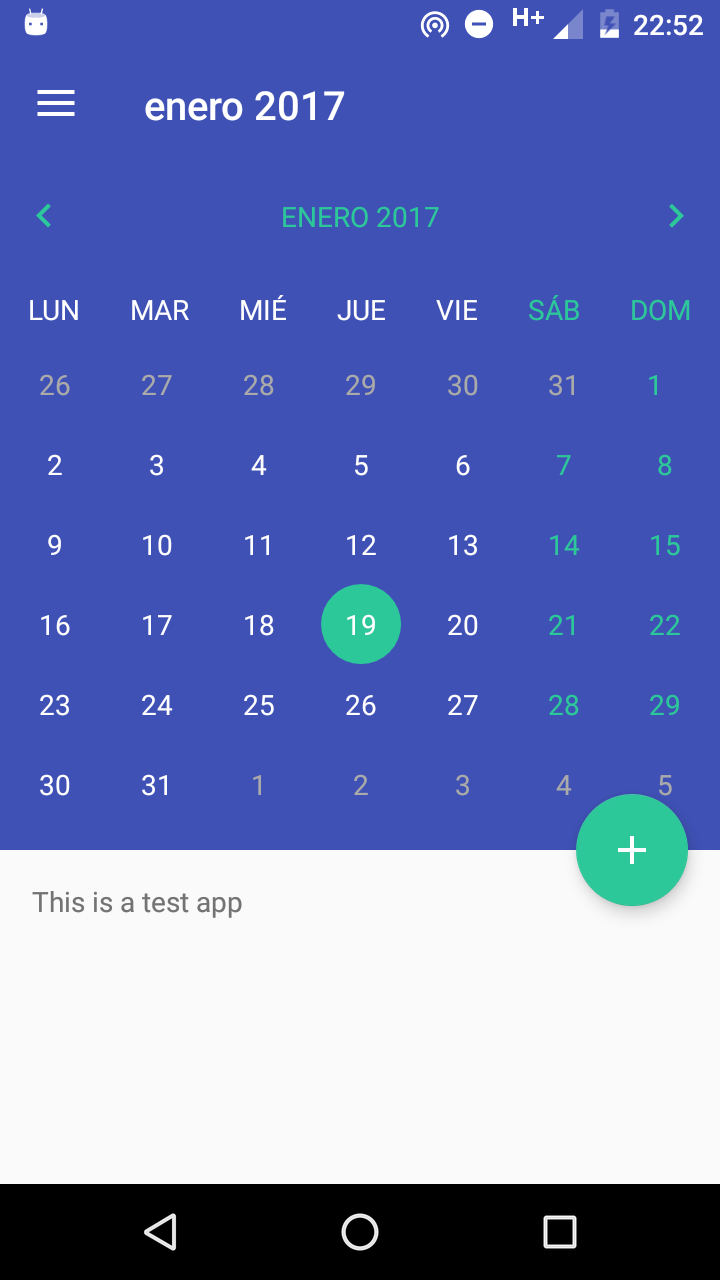
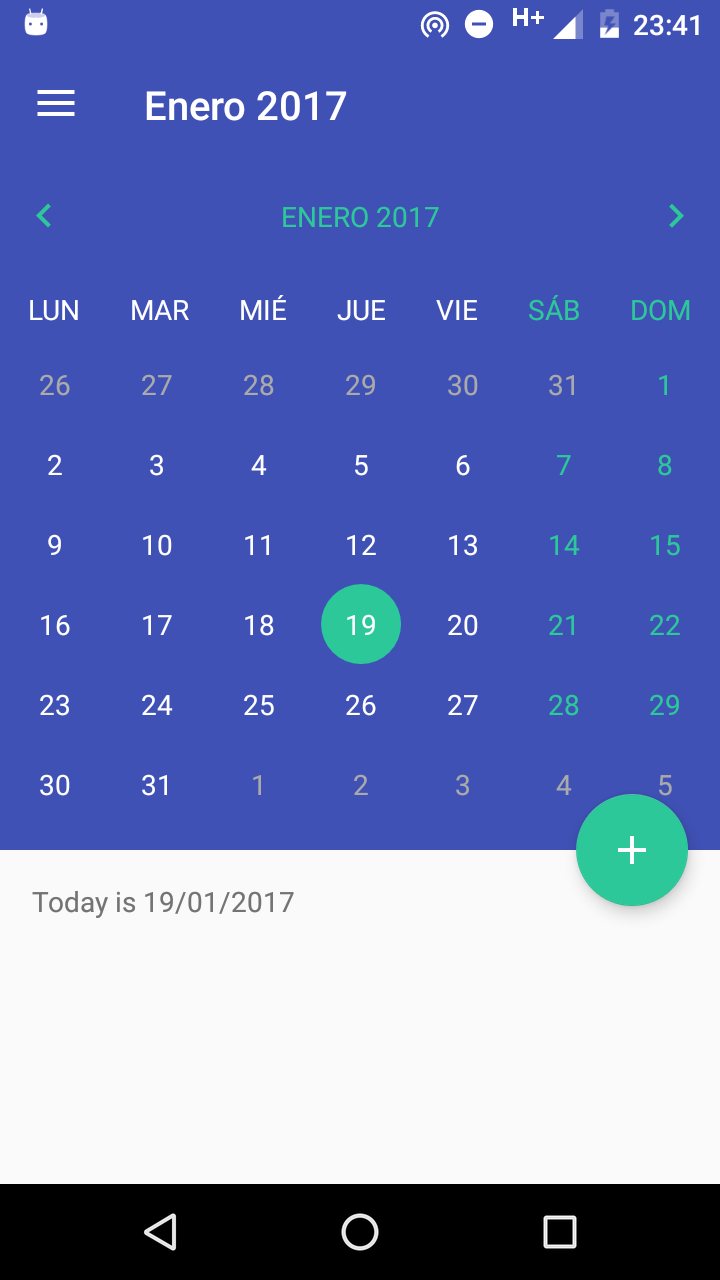
Refactor of sample app

Changed region(s): [[0.0611, 0.6875, 0.3972, 0.7188], [0.1833, 0.0625, 0.4889, 0.0938], [0.9167, 0.0, 0.9778, 0.0312]]

diff --git a/app/src/main/java/io/blackbox_vision/materialcalendarview/sample/view/MainActivity.java b/app/src/main/java/io/blackbox_vision/materialcalendarview/sample/view/MainActivity.java
@@ -1,0 +1,137 @@
+package io.blackbox_vision.materialcalendarview.sample.view;
+
+import android.os.Bundle;
+import android.support.annotation.NonNull;
+import android.support.design.widget.FloatingActionButton;
+import android.support.design.widget.NavigationView;
+import android.support.v4.view.GravityCompat;
+import android.support.v4.widget.DrawerLayout;
+import android.support.v7.app.ActionBar;
+import android.support.v7.app.ActionBarDrawerToggle;
+import android.support.v7.app.AppCompatActivity;
+import android.support.v7.widget.Toolbar;
+import android.view.MenuItem;
+import android.widget.TextView;
+
+import butterknife.BindView;
+
+import butterknife.ButterKnife;
+import io.blackbox_vision.materialcalendarview.sample.R;
+import io.blackbox_vision.materialcalendarview.sample.logic.presenter.MainPresenter;
+import io.blackbox_vision.materialcalendarview.sample.logic.presenter_view.MainView;
+import io.blackbox_vision.materialcalendarview.view.CalendarView;
+
+import java.text.SimpleDateFormat;
+import java.util.Calendar;
+import java.util.Date;
+import java.util.Locale;
+
+
+import static io.blackbox_vision.materialcalendarview.sample.utils.AnimationUtils.animate;
+
+
+public final class MainActivity extends AppCompatActivity implements MainView {
+    private static final String DATE_TEMPLATE = "dd/MM/yyyy";
+
+    private final MainPresenter presenter = new MainPresenter(this);
+
+    @BindView(R.id.textview)
+    TextView textView;
+
+    @BindView(R.id.drawer_layout)
+    DrawerLayout drawer;
+
+    @BindView(R.id.toolbar)
+    Toolbar toolbar;
+
+    @BindView(R.id.nav_view)
+    NavigationView navigationView;
+
+    @BindView(R.id.fab)
+    FloatingActionButton fab;
+
+    @BindView(R.id.calendar_view)
+    CalendarView calendarView;
+
+    @NonNull
+    private final SimpleDateFormat formatter = new SimpleDateFormat(DATE_TEMPLATE, Locale.getDefault());
+
+    @Override
+    protected void onCreate(Bundle savedInstanceState) {
+        super.onCreate(savedInstanceState);
+        setContentView(R.layout.activity_main);
+        ButterKnife.bind(this);
+
+        setSupportActionBar(toolbar);
+
+        presenter.addNavigationDrawer();
+        presenter.addCalendarView();
+        presenter.addTextView();
+        presenter.animate();
+    }
+
+    @Override
+    public void onBackPressed() {
+        if (drawer.isDrawerOpen(GravityCompat.START)) {
+            drawer.closeDrawer(GravityCompat.START);
+        } else {
+            super.onBackPressed();
+        }
+    }
+
+    public boolean onNavigationItemSelected(MenuItem item) {
+        drawer.closeDrawer(GravityCompat.START);
+        return true;
+    }
+
+    @Override
+    public void prepareTextView() {
+        textView.setText(String.format("Today is %s", formatter.format(new Date(System.currentTimeMillis()))));
+    }
+
+    @Override
+    public void prepareCalendarView() {
+        final ActionBar actionBar = getSupportActionBar();
+
+        calendarView.setFirstDayOfWeek(Calendar.MONDAY);
+        calendarView.setIsOverflowDateVisible(true);
+        calendarView.setCurrentDay(new Date(System.currentTimeMillis()));
+        calendarView.setBackButtonColor(R.color.colorAccent);
+        calendarView.setNextButtonColor(R.color.colorAccent);
+        calendarView.refreshCalendar(Calendar.getInstance(Locale.getDefault()));
+        calendarView.setOnDateLongClickListener(selectedDate -> textView.setText(formatter.format(selectedDate)));
+        calendarView.setOnMonthChangeListener(monthDate -> {
+            final SimpleDateFormat df = new SimpleDateFormat("MMMM yyyy", Locale.getDefault());
+
+            if (null != actionBar) {
+                String dateStr = df.format(monthDate);
+                dateStr = dateStr.substring(0, 1).toUpperCase() + dateStr.substring(1, dateStr.length());
+
+                actionBar.setTitle(dateStr);
+            }
+        });
+    }
+
+    @Override
+    public void prepareNavigationDrawer() {
+        final ActionBarDrawerToggle toggle = new ActionBarDrawerToggle(
+                this,
+                drawer,
+                toolbar,
+                R.string.navigation_drawer_open,
+                R.string.navigation_drawer_close
+        );
+
+        drawer.addDrawerListener(toggle);
+        toggle.syncState();
+
+        navigationView.setNavigationItemSelectedListener(this::onNavigationItemSelected);
+    }
+
+    @Override
+    public void animateViews() {
+        calendarView.shouldAnimateOnEnter(true);
+        animate(fab, getApplicationContext());
+        animate(textView, getApplicationContext());
+    }
+}

diff --git a/app/src/main/java/io/blackbox_vision/materialcalendarview/sample/logic/presenter/MainPresenter.java b/app/src/main/java/io/blackbox_vision/materialcalendarview/sample/logic/presenter/MainPresenter.java
@@ -1,0 +1,48 @@
+package io.blackbox_vision.materialcalendarview.sample.logic.presenter;
+
+import android.support.annotation.Nullable;
+
+import io.blackbox_vision.materialcalendarview.sample.logic.presenter_view.MainView;
+
+public final class MainPresenter {
+
+    @Nullable
+    private MainView view;
+
+    public MainPresenter(@Nullable MainView view) {
+        this.view = view;
+    }
+
+    public void addNavigationDrawer() {
+        if (null != getView()) {
+            getView().prepareNavigationDrawer();
+        }
+    }
+
+    public void addTextView() {
+        if (null != getView()) {
+            getView().prepareTextView();
+        }
+    }
+
+    public void addCalendarView() {
+        if (null != getView()) {
+            getView().prepareCalendarView();
+        }
+    }
+
+    public void animate() {
+        if (null != getView()) {
+            getView().animateViews();
+        }
+    }
+
+    public void detachView() {
+        this.view = null;
+    }
+
+    @Nullable
+    public MainView getView() {
+        return view;
+    }
+}

diff --git a/app/src/main/java/io/blackbox_vision/materialcalendarview/sample/utils/AnimationUtils.java b/app/src/main/java/io/blackbox_vision/materialcalendarview/sample/utils/AnimationUtils.java
@@ -1,0 +1,26 @@
+package io.blackbox_vision.materialcalendarview.sample.utils;
+
+
+import android.content.Context;
+import android.support.annotation.NonNull;
+import android.support.v4.view.ViewCompat;
+import android.view.View;
+import android.view.animation.DecelerateInterpolator;
+
+import static io.blackbox_vision.materialcalendarview.internal.utils.ScreenUtils.getScreenHeight;
+
+public final class AnimationUtils {
+
+    private AnimationUtils() { }
+
+    public static void animate(@NonNull View v, @NonNull Context ctx) {
+        ViewCompat.setTranslationY(v, getScreenHeight(ctx));
+        ViewCompat.setAlpha(v, 0f);
+        ViewCompat.animate(v)
+                .translationY(0f)
+                .setDuration(1500)
+                .alpha(1f)
+                .setInterpolator(new DecelerateInterpolator(3.0f))
+                .start();
+    }
+}

diff --git a/app/src/main/java/io/blackbox_vision/materialcalendarview/sample/logic/presenter_view/MainView.java b/app/src/main/java/io/blackbox_vision/materialcalendarview/sample/logic/presenter_view/MainView.java
@@ -1,0 +1,13 @@
+package io.blackbox_vision.materialcalendarview.sample.logic.presenter_view;
+
+
+public interface MainView {
+
+    void prepareTextView();
+
+    void prepareCalendarView();
+
+    void prepareNavigationDrawer();
+
+    void animateViews();
+}
